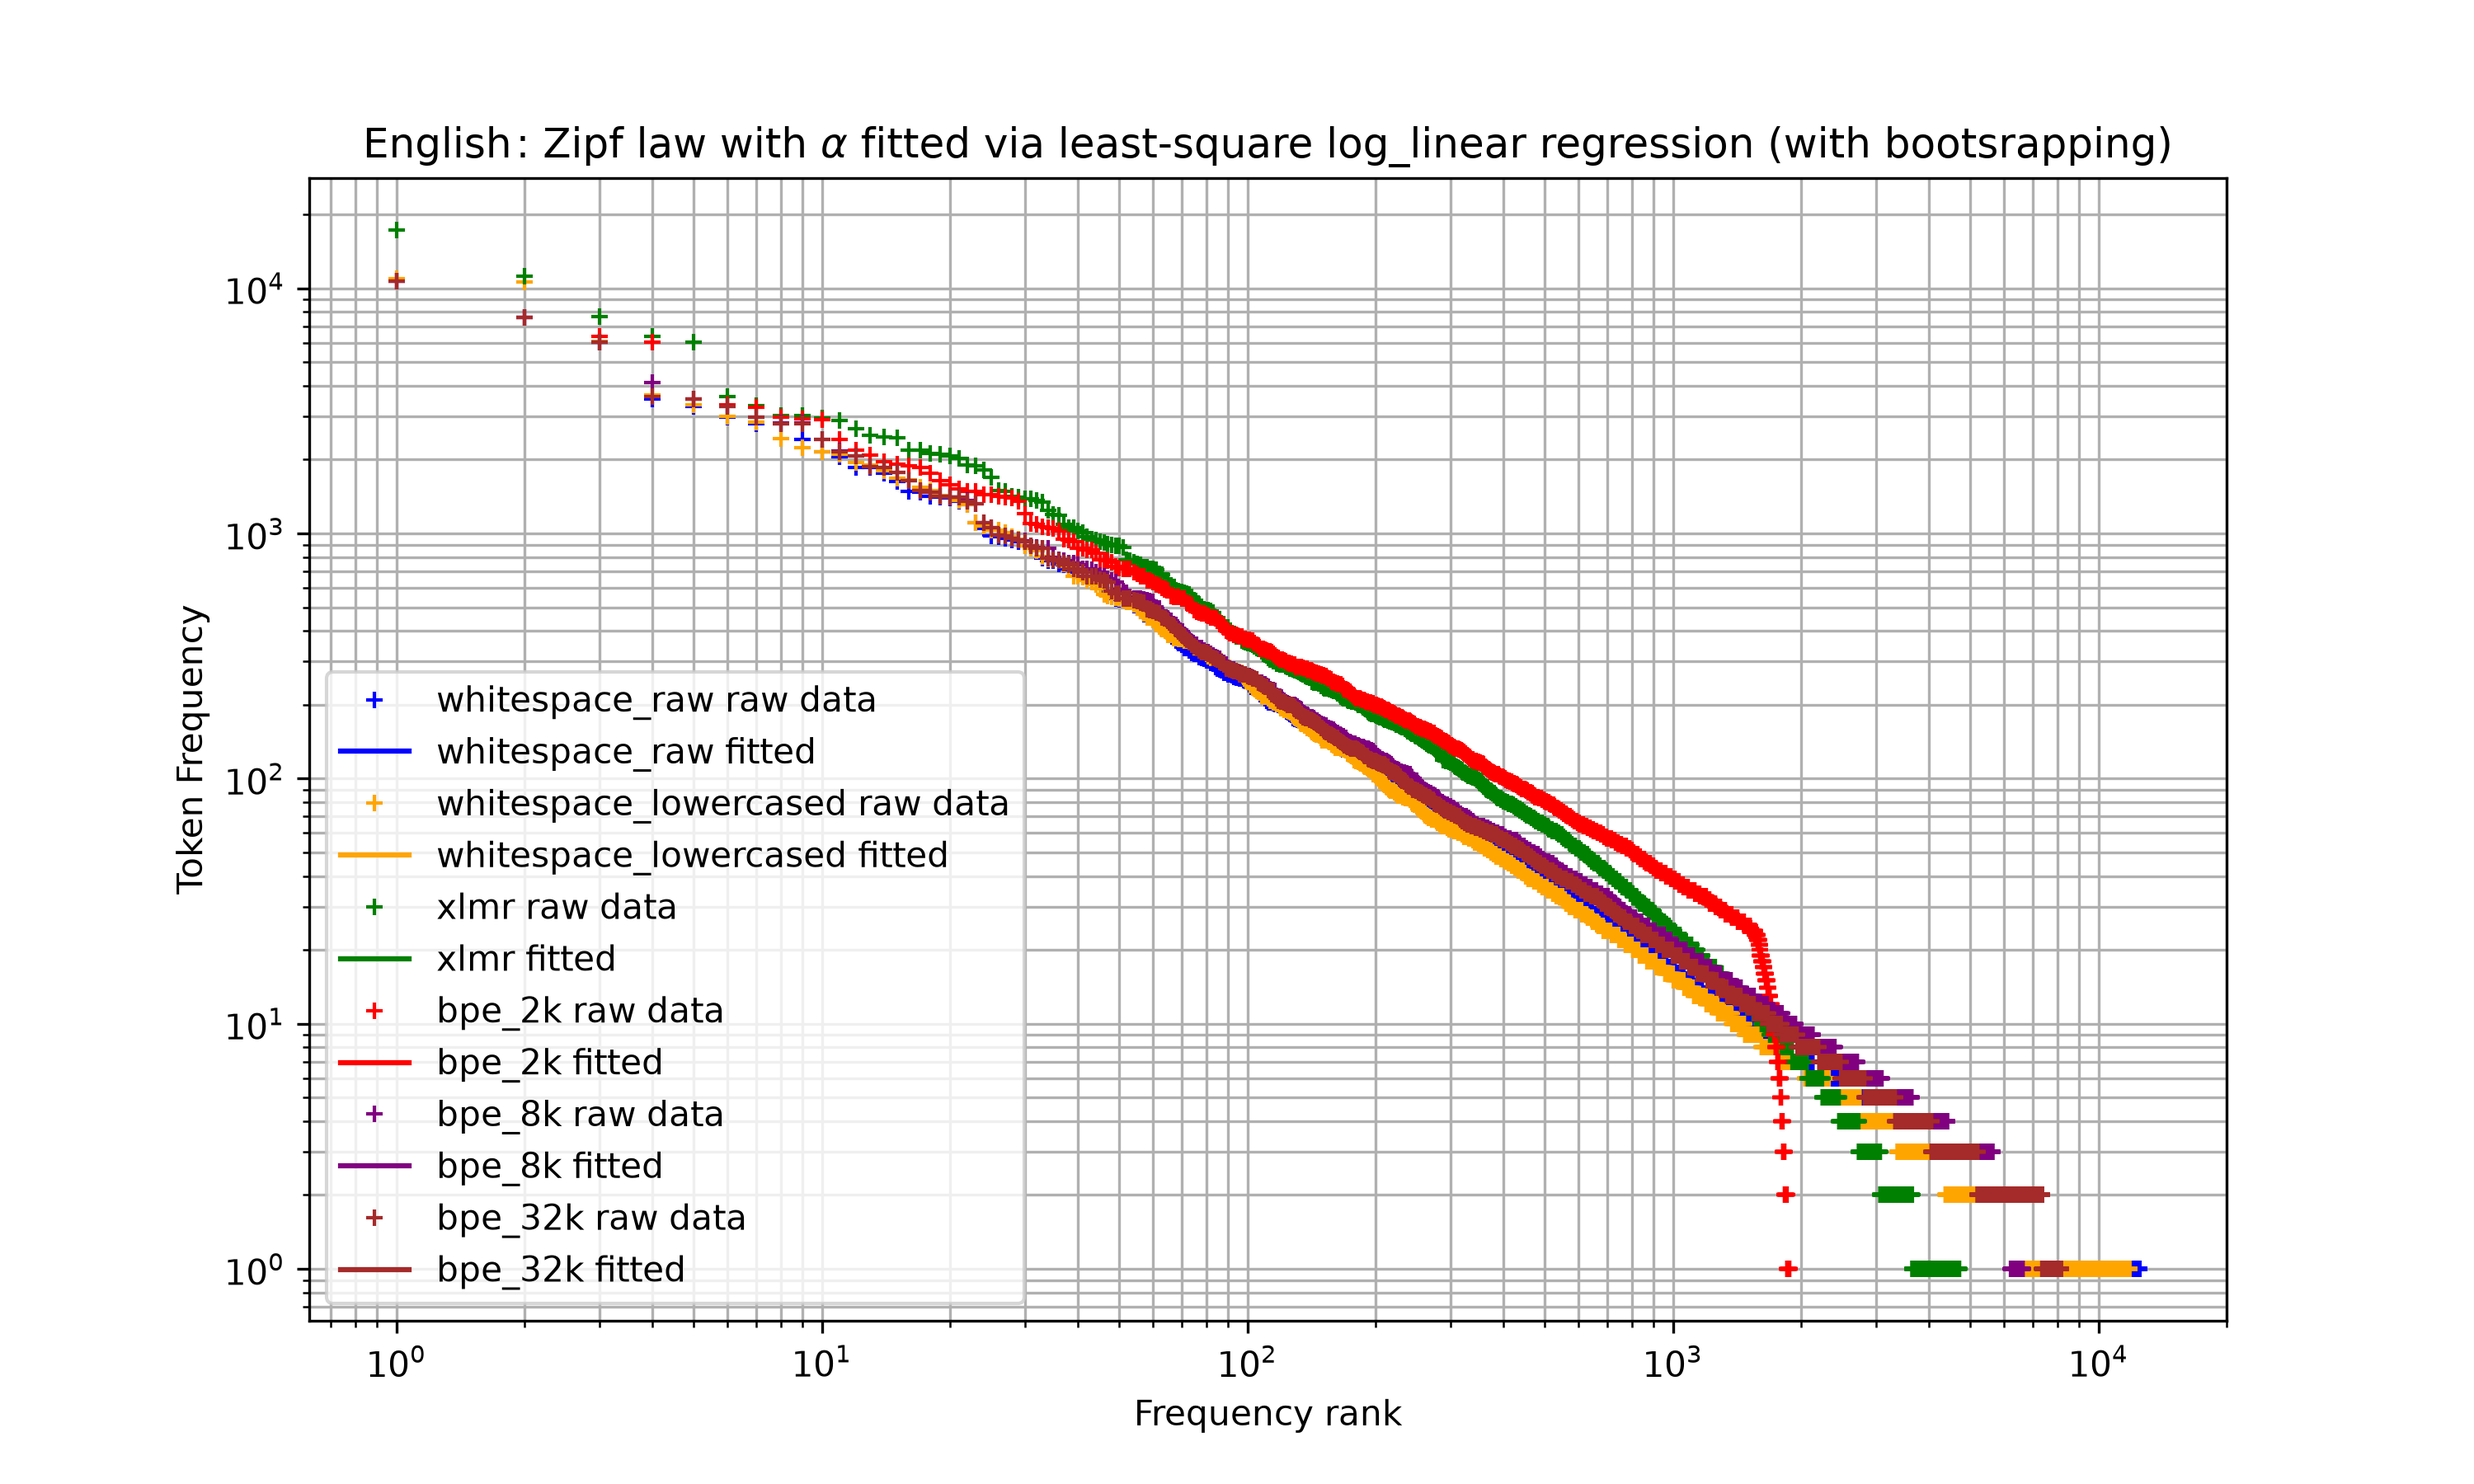
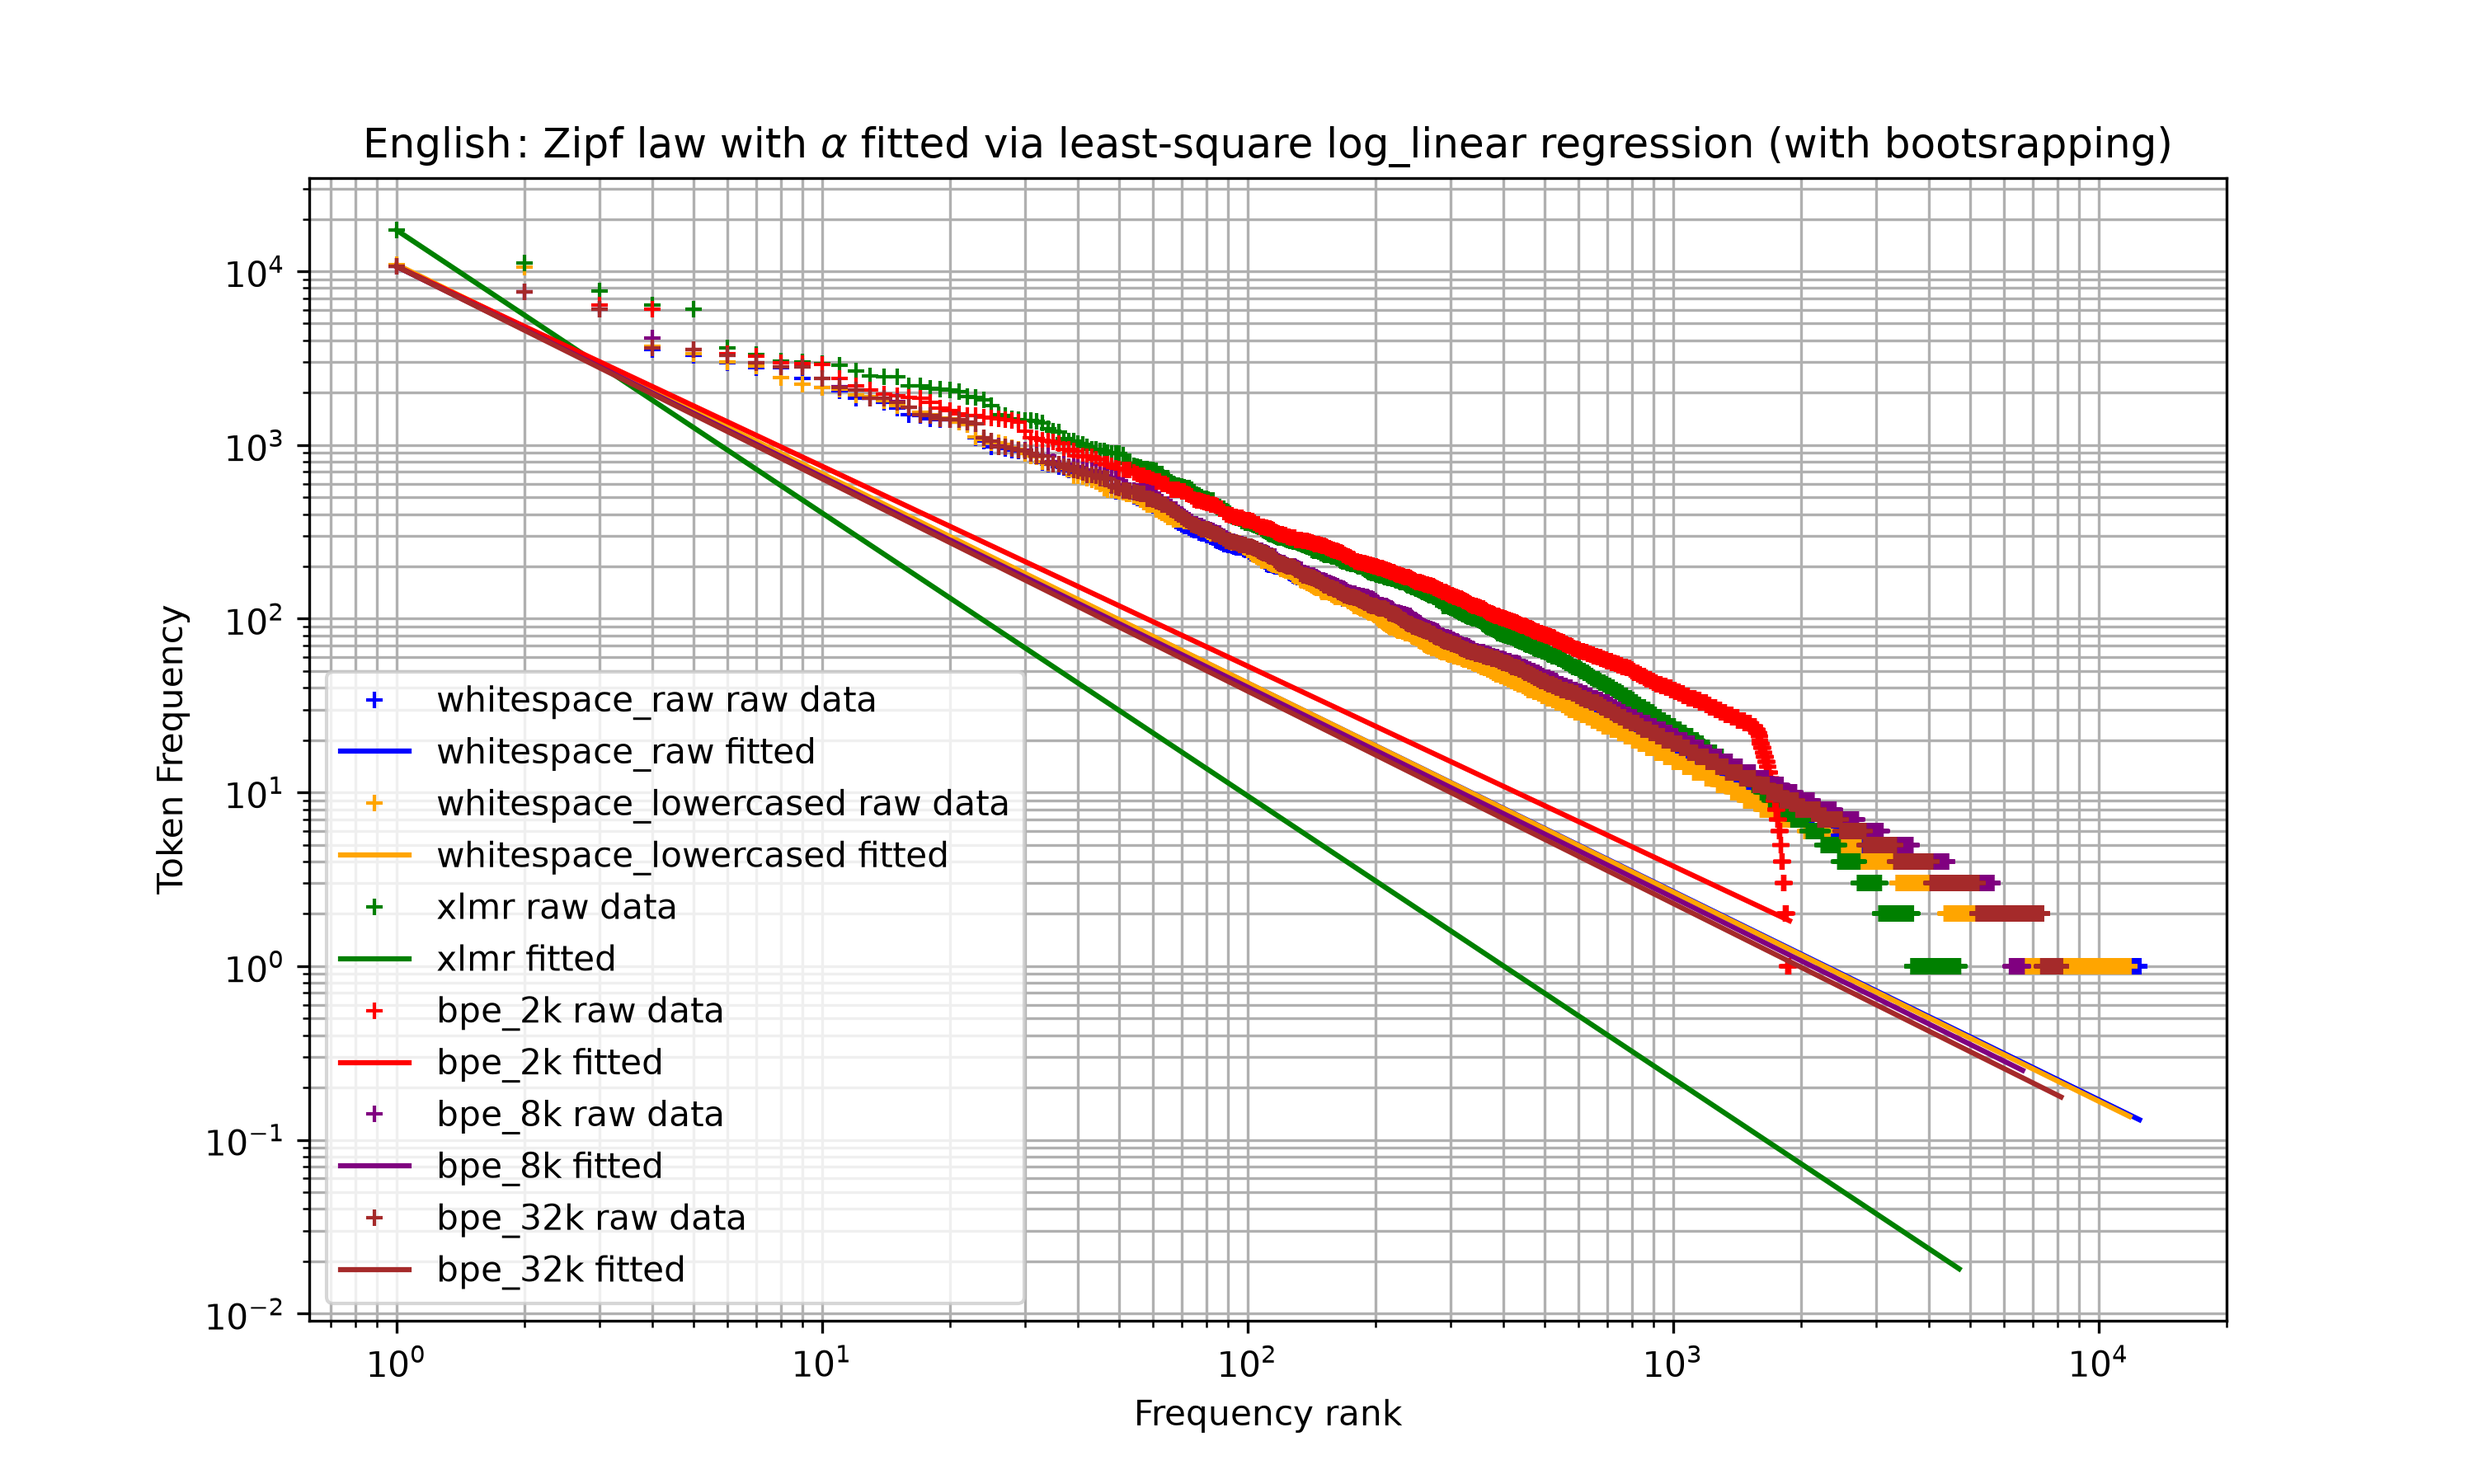
Implemented bootstrapping manually to avoid excessive RAM consumption problem

diff --git a/plot_freqranks.py b/plot_freqranks.py
@@ -5,6 +5,7 @@ import numpy as np
 import time
 import scipy
 
+tick = time.time()
 FREQ_DIR = Path("freqranks")
 Path("./figures").mkdir(parents=True, exist_ok=True)
 
@@ -18,6 +19,24 @@ def load_freqranks(path):
             freqranks.append(int(frequency))
 
     return freqranks
+
+def my_bootstrap(freqranks,n,alpha_compute_method,plot=False):
+    alphas = []
+    for i in range(n):
+        sample = np.flip(np.sort(np.random.choice(freqranks, len(freqranks), replace=True)))
+        alphas.append(alpha_compute_method(sample))
+        
+    if plot:
+        plt.figure(figsize=(10,6))
+        plt.plot(alphas,np.linspace(0,0,len(alphas)), linestyle="none",marker="x",markersize=4)
+        plt.title("TESTPLOT : to make sure that the alphas generated by bootstrapping are indeed distributed according to a Gaussian‐looking curve")
+        plt.xlabel(r"$\alpha$")
+        plt.ylabel("(dummy axis)")
+        plt.show()
+    alphas = np.array(alphas)
+    return np.mean(alphas), np.std(alphas) #NB : pour l'instant, l'incertitude est juste l'écart‐type de la distribution d'alphas. À affiner si besoin.
+    
+    
 
 def plot_freqranks(freqranks_dict, title, output_path):
     plt.figure(figsize=(10, 6))
@@ -40,7 +59,7 @@ def compute_alpha_least_square(freqranks):
     return -np.polyfit(np.log(ranks), np.log(freqranks),1)[0]
 
 def compute_alpha_powerlaw(freqranks):
-    gamma =  powerlaw.Fit(freqranks, discrete=True).alpha
+    gamma =  powerlaw.Fit(freqranks, discrete=True,verbose=False).alpha
     return 1/(gamma-1)
 
 def fit_plot_alpha_nobootstrap(freqranks_dict, title, output_path, color_code, alpha_compute_method):
@@ -74,10 +93,12 @@ def fit_plot_alpha_with_bootstrap(freqranks_dict, title, output_path, color_code
         ranks = np.arange(1, len(freqranks) + 1)
         plt.loglog(ranks, freqranks, linestyle="none", marker="+", markersize=5, label=label+" raw data", color=color_code[label])
         
-        low,high = scipy.stats.bootstrap((freqranks,), alpha_compute_method, n_resamples=100).confidence_interval
-        alpha = 0.5*(high + low)
+        # low,high = scipy.stats.bootstrap((freqranks,), alpha_compute_method, n_resamples=100).confidence_interval
+        # alpha = 0.5*(high + low)
+        # print(f"Finished bootstrapping for {language}, {label}")
+        # eps_alpha = 0.5*(high - low) #incertitude
+        alpha,eps_alpha = my_bootstrap(freqranks, 100, alpha_compute_method)
         print(f"Finished bootstrapping for {language}, {label}")
-        eps_alpha = 0.5*(high - low) #incertitude
         alphas[label] = alpha
         eps_alphas[label] = eps_alpha
         fitted_freqs = freqranks[0]/(ranks**alpha)
@@ -94,7 +115,6 @@ def fit_plot_alpha_with_bootstrap(freqranks_dict, title, output_path, color_code
     return alphas,eps_alphas
 
     
-
 
 languages = ["English", "French", "German", "Finnish", "Arabic"]
 color_code = {"whitespace_raw":"blue","whitespace_lowercased":"orange","xlmr":"green","bpe_2k":"red","bpe_8k":"purple","bpe_32k":"brown"}
@@ -145,9 +165,19 @@ for language in languages:
                              output_path=f"./figures/{language}_alpha_least_square_with_bootstrapping.png",
                              color_code=color_code, alpha_compute_method=compute_alpha_least_square)
     
+    alphas_pl_wBS[language], eps_alphas_pl[language] = fit_plot_alpha_with_bootstrap(freqranks_dict, 
+                             title=fr"{language} : Zipf law with $\alpha$ fitted via powerlaw regression (with bootsrapping)", 
+                             output_path=f"./figures/{language}_alpha_powerlaw_with_bootstrapping.png",
+                             color_code=color_code, alpha_compute_method=compute_alpha_powerlaw)
+    
 
 print(f"{alphas_ls_noBS = }")
+print("\n")
 print(f"{alphas_pl_noBS = }")
+print("\n")
+print(f"{alphas_ls_wBS = }")
 
+tock = time.time()
+print(f"Executed plot_freqranks in {tock-tick:6f} s")
 
 
